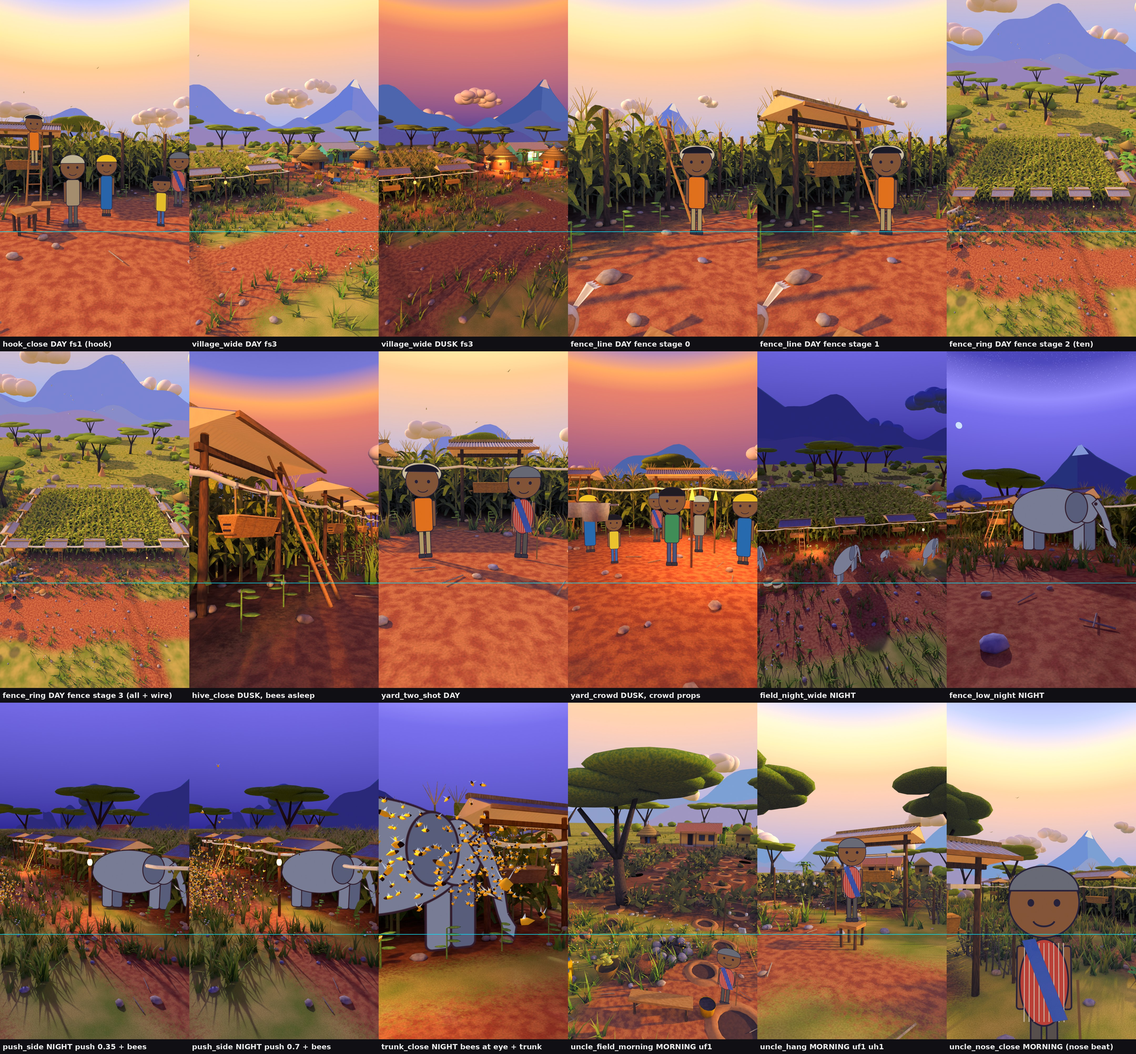
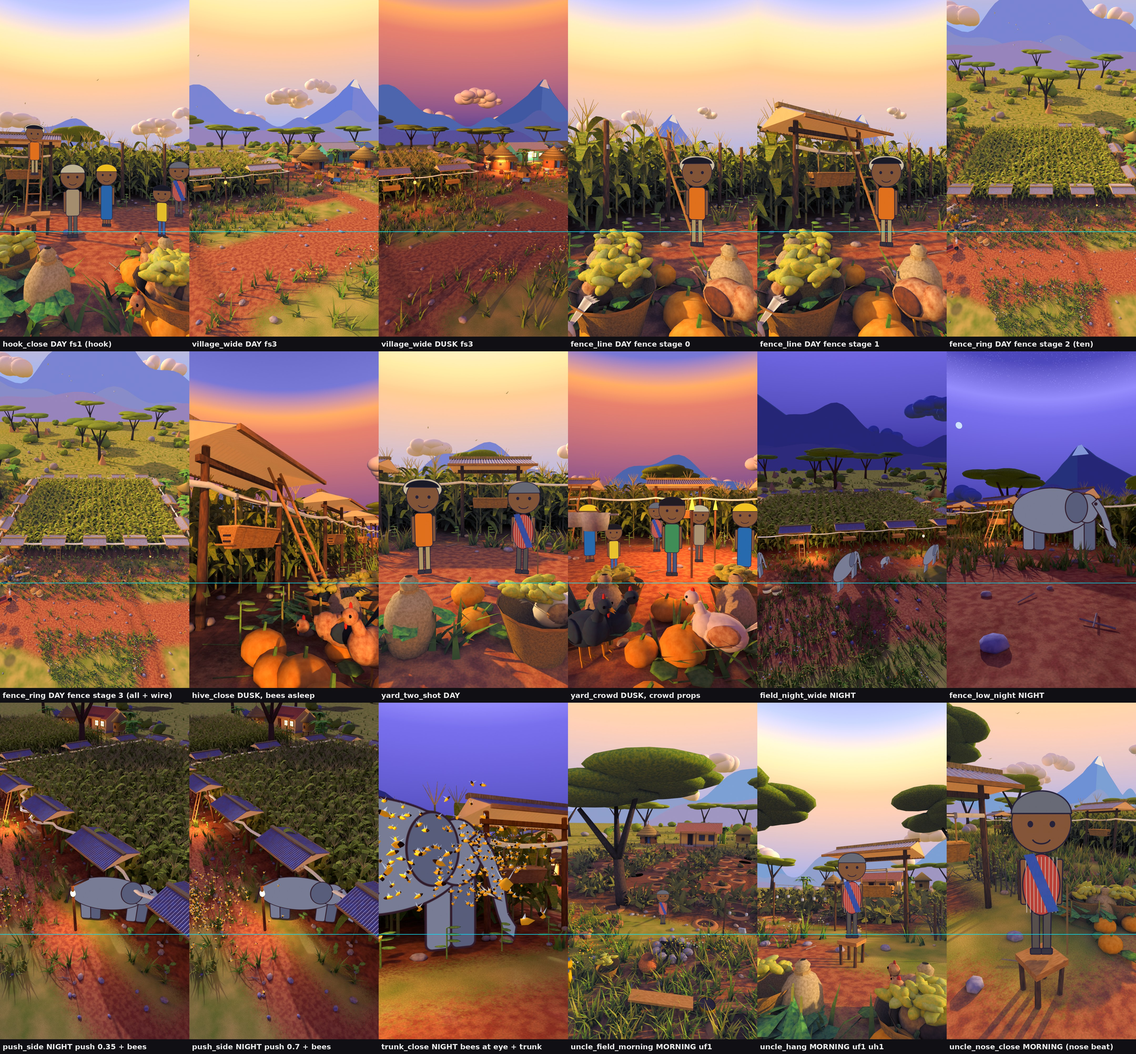
Film 14: set3d14 round 3 (edge dressing, push_side high view, payoff framing)
Claude-Session: https://claude.ai/code/session_017iwyCwFFpWgHeE98WRReuc

diff --git a/film/v3/set3d14/farm.py b/film/v3/set3d14/farm.py
@@ -422,10 +422,10 @@ STAND = {   # name -> (x, y, z): floor points for actor cards (card bottom = fee
  'uncle_yard': (-1.2, 1.2, 0.0), 'uncle_night': (-2.4, 2.6, 0.0),
  'crowd_a': (-4.2, 1.2, 0.0), 'crowd_b': (-3.3, 0.2, 0.0), 'crowd_c': (-1.2, 1.2, 0.0), 'crowd_d': (-0.4, 0.1, 0.0), 'crowd_e': (-2.0, 0.0, 0.0),
  'villager_woman': (-4.0, 1.9, 0.0), 'villager_kid': (-3.0, 1.0, 0.0), 'villager_oldman': (-4.9, 1.3, 0.0), 'villager_woman2': (-2.4, 1.9, 0.0), 'villager_man': (-1.6, 2.4, 0.0),
- 'matriarch_push': (5.4, 4.3, 0.0), 'matriarch_arrive': (-0.6, 2.3, 0.0),
+ 'matriarch_push': (5.4, 4.0, 0.0), 'matriarch_push_in': (6.6, 4.3, 0.0), 'matriarch_arrive': (-0.6, 2.3, 0.0),
  'ele_2': (-6.2, 2.4, 0.0), 'ele_3': (8.6, 2.0, 0.0), 'ele_4': (-11.0, 0.6, 0.0), 'calf': (3.0, 1.6, 0.0),
  'herd_a': (-9.0, 0.2, 0.0), 'herd_b': (-2.5, -0.8, 0.0), 'herd_c': (4.5, 0.4, 0.0), 'herd_d': (9.5, 1.4, 0.0), 'herd_calf': (1.0, 1.4, 0.0),
- 'uncle_stool': (-22.4, 2.4, 0.46), 'uncle_field': (-27.0, 1.2, 0.0), 'uncle_fence_hive': (-23.0, 5.0, 0.0),
+ 'uncle_stool': (-22.4, 2.4, 0.46), 'uncle_field': (-30.0, 4.6, 0.0), 'uncle_fence_hive': (-23.0, 5.0, 0.0),
 }
 # heights in m. The real cast14 scale: 1 D = 0.583 m, matriarch 3.3 m, elephant_b/c/d 0.86/0.93/0.77 of that, calf 0.36 (1.2 m); real canvases CANVAS14 (+-11.3 D wide, 9.3 D tall for the matriarch)
 HEIGHT = dict(hero=1.75, uncle=1.72, woman=1.62, kid=1.15, oldman=1.6, man=1.75, matriarch=3.3, elephant_b=2.84, elephant_c=3.07, elephant_d=2.54, elephant=3.0, calf=1.2)
@@ -575,6 +575,27 @@ def _village(M, light, props):
         x = 14.0 + i * 0.95; props.rod(M['wood'], (x, 2.0 + rw.uniform(-.05, .05), 0), (x, 2.0, 0.9 + rw.uniform(-.1, .1)), 0.025, 0.022, 4)
     for z in (0.35, 0.6, 0.85): props.poly(M['woodgrey'], [(14.0 + k * 1.9, 2.0, z) for k in range(15)], 0.014, 0.014, 4, smooth=False)
 
+EDGE_PRESETS = ('hook_close', 'fence_line', 'hive_close', 'yard_two_shot', 'yard_crowd', 'uncle_hang', 'fence_low_night', 'uncle_nose_close')
+def _edge_dress(M, light, preset):
+    """props already in the set (kale, cob baskets, pumpkins, chickens, sacks, short tufts) 1.9-4.4 m from the camera at the frame edges: no flowers, clear lane + clear stand points."""
+    c = CAMS[preset]; cl = Vector(c['loc']); lk = Vector(c['look']) - cl; az = math.atan2(lk.y, lk.x); half = math.atan(10.125 / c['lens']); rr = rnd(900 + len(preset))
+    stands = [(STAND[st[1]][0], STAND[st[1]][1]) for st in PRESETS[preset]['staging']]; mb = MB('edge'); n = 0
+    for i in range(120):
+        if n >= 16: break
+        side = -1 if i % 2 else 1; ang = az + side * rr.uniform(0.5, 0.95) * half; d = rr.uniform(1.9, 4.6); x = cl.x + math.cos(ang) * d; y = cl.y + math.sin(ang) * d
+        if y > 3.6 and -15 < x < 12.5: continue
+        if y > 4.0 and -47 < x < -21: continue
+        if any((x - sx) ** 2 + (y - sy) ** 2 < 1.7 ** 2 for sx, sy in stands): continue
+        k = n % 6; n += 1
+        if k == 0: dx, dy = math.cos(ang + 1.5708), math.sin(ang + 1.5708); G.kale_row(mb, M, (x, y, 0.0), (x + dx * 1.3, y + dy * 1.3, 0.0), rr, 0.5)
+        elif k == 1: G.basket(mb, M, (x, y), True, int(x * 7))
+        elif k == 2: G.pumpkin_patch(mb, M, (x, y, 0.0), rr, 3)
+        elif k == 3 and light != 'NIGHT': G.chicken(mb, M, (x, y, 0.0), rr.uniform(0, 6.28), 1.15, int(abs(x)) % 4, 0.7 if int(abs(y)) % 2 else 0.0)
+        elif k == 4: G.sack(mb, M, (x, y, 0.0), rr.uniform(0, 6), 0.9)
+        else:
+            for q in range(4): G.grass_clump(mb, M, (x + rr.uniform(-.5, .5), y + rr.uniform(-.5, .5), 0.0), rr, rr.uniform(0.25, 0.45), 'grassgreen', 5)
+    mb.finish()
+
 def _trees(M, light):
     mb = MB('trees')
     for i, (x, y, s, yw) in enumerate([(-20.0, 20.0, 1.5, 0.3), (35.0, 5.0, 1.3, 1.1), (-33.0, 6.0, 1.1, 2.1), (0.0, 44.0, 1.7, 0.5), (-6.0, 60.0, 1.4, 1.5), (26.0, 34.0, 1.2, 0.9),
@@ -615,7 +636,7 @@ def _grass(M, light, cam_locs, cull=()):
     # camera-side foreground tufts: dense near every preset camera, thinning with distance
     for (cx, cy, fx, fy, n, dmax) in cam_locs:
         for i in range(n):
-            d = rg.uniform(4.6, max(dmax, 6.0)); a = math.atan2(fy, fx) + rg.uniform(-0.62, 0.62); x = cx + math.cos(a) * d; y = cy + math.sin(a) * d
+            d = rg.uniform(3.0 if n > 400 else 4.6, max(dmax, 6.0)); a = math.atan2(fy, fx) + rg.uniform(-0.62, 0.62); x = cx + math.cos(a) * d; y = cy + math.sin(a) * d
             if not ok(x, y) or -0.6 < y < 0.0 and rg.random() < 0.0: continue
             if -4.8 < y < -1.2 and 0.0 < x < 8.0 and rg.random() < 0.9: continue         # keep the cart track clear
             G.grass_clump(mb, M, (x, y, 0.0), rg, rg.uniform(0.25, 0.55), 'grassgreen' if rg.random() < 0.35 else 'grass', 5)
@@ -772,19 +793,19 @@ def _clear_actors():
 def _roles(): return HEIGHT
 CAMS = dict(
  village_wide=dict(loc=(3.0, -10.5, 5.2), look=(14.0, 12.0, 1.0), lens=20),
- fence_line=dict(loc=(-9.9, 0.9, 1.45), look=(-5.7, 5.0, 1.25), lens=22),
- fence_ring=dict(loc=(-1.5, -14.5, 18.0), look=(-1.5, 15.0, 0.0), lens=20),
- hive_close=dict(loc=(-9.7, 2.4, 1.2), look=(-5.2, 5.0, 1.45), lens=24),
- hook_close=dict(loc=(-5.2, -2.7, 1.5), look=(-3.9, 4.0, 1.15), lens=20),
- yard_two_shot=dict(loc=(-2.1, -2.5, 1.4), look=(-2.1, 1.5, 0.7), lens=22),
- yard_crowd=dict(loc=(-2.2, -4.4, 1.45), look=(-2.2, 2.0, 0.85), lens=22),
- field_night_wide=dict(loc=(-4.0, -13.5, 9.0), look=(-0.5, 10.0, 0.8), lens=22),
+ fence_line=dict(loc=(-9.9, 0.9, 1.45), look=(-5.7, 5.0, 1.55), lens=22),
+ fence_ring=dict(loc=(-1.5, -12.5, 18.0), look=(-1.5, 15.0, -1.5), lens=20),
+ hive_close=dict(loc=(-9.7, 2.4, 1.2), look=(-5.2, 5.0, 1.7), lens=24),
+ hook_close=dict(loc=(-5.2, -2.7, 1.5), look=(-3.9, 4.0, 1.5), lens=20),
+ yard_two_shot=dict(loc=(-2.1, -2.5, 1.4), look=(-2.1, 1.5, 1.0), lens=22),
+ yard_crowd=dict(loc=(-2.2, -4.4, 1.45), look=(-2.2, 2.0, 1.15), lens=22),
+ field_night_wide=dict(loc=(-4.0, -13.5, 9.0), look=(-0.5, 10.0, 1.6), lens=22),
  fence_low_night=dict(loc=(3.4, -4.4, 1.15), look=(-1.3, 2.4, 1.3), lens=22),
- push_side=dict(loc=(12.5, -2.2, 3.4), look=(-2.2, 7.5, 0.2), lens=26),
+ push_side=dict(loc=(10.5, -0.6, 8.2), look=(3.0, 5.0, 0.8), lens=26),
  trunk_close=dict(loc=(5.2, 0.2, 1.5), look=(6.9, 4.3, 1.4), lens=28),
  uncle_field_morning=dict(loc=(-27.0, -3.5, 4.8), look=(-33.5, 14.0, 0.0), lens=22),
- uncle_hang=dict(loc=(-20.4, -1.2, 1.5), look=(-22.4, 2.4, 1.5), lens=22),
- uncle_nose_close=dict(loc=(-23.4, 1.1, 2.0), look=(-22.2, 2.7, 2.15), lens=22),
+ uncle_hang=dict(loc=(-20.4, -1.2, 1.5), look=(-22.4, 2.4, 1.8), lens=22),
+ uncle_nose_close=dict(loc=(-23.55, 0.8, 1.9), look=(-22.4, 2.4, 1.42), lens=22),
 )
 NOTES = dict(
  village_wide='high wide: the beehive-fenced maize field, hero yard, the village of huts and tin house to the right, the uncle farm to the left, acacias, hills and the blue mountain',
@@ -796,7 +817,7 @@ NOTES = dict(
  yard_crowd='the crowd of villagers + uncle in the yard at DUSK with torches and pots (cr1)',
  field_night_wide='high wide at night: the whole fence ring, the herd walking toward it, fire and lantern pools, moon key',
  fence_low_night='low at the fence at night: the matriarch arriving in front of unit 1-2, hives and wire in the moonlight, moon in frame',
- push_side='3/4 view ALONG the front wire from the right: matriarch at the near end pushing, 6+ hives receding left; the bow and the travelling wave',
+ push_side='high 3/4 view (about 40 deg down) along the front wire from the right: from above the bowed wire shows over the matriarch\'s back at the push point (x 6.0), hives and roofs recede left',
  trunk_close='the whole matriarch head + trunk at the fence: bees at eye and trunk, wire and hives behind',
  uncle_field_morning="high-ish view of the uncle's trampled field in morning light: flattened stalks, broken thorn fence, big footprints, cobs",
  uncle_hang='medium: the uncle ON his stool by his own fence hanging his first hive, morning light',
@@ -866,8 +887,9 @@ def build(preset=None, light=None, clear=True, dress=True):
     build_fence(M)
     props = MB('props'); _hero_yard(M, light, props); _village(M, light, props); _uncle_farm(M, light, props); props.finish()
     _trees(M, light)
+    if dress and preset in EDGE_PRESETS: _edge_dress(M, light, preset)
     cc = CAMS[preset]; wide = preset in ('village_wide', 'field_night_wide', 'fence_ring', 'uncle_field_morning')
-    cl = [(cc['loc'][0], cc['loc'][1], cc['look'][0] - cc['loc'][0], cc['look'][1] - cc['loc'][1], (500 if wide else 70) if dress else 0, 26.0 if wide else 10.0)]
+    cl = [(cc['loc'][0], cc['loc'][1], cc['look'][0] - cc['loc'][0], cc['look'][1] - cc['loc'][1], (1500 if wide else 70) if dress else 0, 26.0 if wide else 10.0)]
     cull = [(cc['loc'][0], cc['loc'][1], 2.0 if wide else 4.8)] + [(STAND[st[1]][0], STAND[st[1]][1], 1.9) for st in PRESETS[preset]['staging']]
     if not wide: cull += [((cc['loc'][0] * 0.6 + STAND[st[1]][0] * 0.4), (cc['loc'][1] * 0.6 + STAND[st[1]][1] * 0.4), 1.6) for st in PRESETS[preset]['staging']]
     _grass(M, light, cl if dress else [], cull)

diff --git a/film/v3/set3d14/API.md b/film/v3/set3d14/API.md
@@ -4,6 +4,12 @@ Files: `farm.py` (set, hooks, presets, cameras, stand points, placeholders, CLI)
 `contact.jpg` / `contact_small.jpg` (16 tiles, 720x1280 each, label under the tile, cyan line at y 880), `farm_work/` (`final/` the 16 PNGs, `final_log.txt`, `hue_rows.txt`, `contact_order.txt`, `stills/`), `tex/` (ground mask, placeholder card art), `styleboard/` (the approved board).
 Grown from `styleboard/sb.py`: same palette, same hard warm key + blue-violet ambient, painterly noise materials, red laterite, blue Mt Kenya. **No depth of field. No text in any picture.** Build takes about 4 s.
 
+## Round 3 changes (QA re-check). Backup of round 2: `bak_r1/`.
+- **Low tiles:** `look_at` raised 0.3-0.5 m on hook_close, fence_line, hive_close, yard_two_shot, yard_crowd, uncle_hang (floor now about 25 % of the frame); `_edge_dress` places set props (kale rows, cob baskets, pumpkins, chickens, sacks, short wide tufts) 1.9-4.6 m from the camera at the frame edges (`EDGE_PRESETS`), never within 1.7 m of a stand point, no flowers. The props are large because they are near; thin them with `dress=False` or lower `n` in `_edge_dress`.
+- **fence_ring / field_night_wide:** tilted so the blotchy near ground leaves the frame, 1500 short tufts from 3 m out.
+- **push_side:** camera is now (10.5,-0.6,8.2) -> (3,5,0.8), 26 mm: about 40 deg down, so the bowed wire is seen from above, over the matriarch's back at the push point (the wire is behind her in a low view; a high view is the only way to see the bow against her). `matriarch_push` stand is (5.4, 4.0). `farm_work/push_strip.jpg` shows push 0 / 0.2 / 0.4 / 0.7: the wire kinks at the push point and the roofs/hives tilt in sequence along the row; the bees show only on the far-left hives (near hives are hidden under their roofs from above). Cost 53 s (dense foreground) - over the 40 s budget; lower samples to 16 for this tile.
+- **uncle_nose_close:** camera 1.95 m from the head, pitched 14 deg down: head y 327-566 (about 240 px), so a 1.0 nose (1.76 head widths below the face) ends at about y 868. **uncle_field_morning:** uncle stand moved to (-30, 4.6): head y 711-757.
+
 ## Round 2 changes (QA-tech FAIL / QA-art FIX-FIRST). Backup of round 1: `bak_r0/`.
 - Push point moved to the front row x 6.0 (arc 20.0); wave speed 11 m/s, bow 1.6 m, hive swing up to 0.9 rad; wire radius is per preset (`wire_r`: default 4.6 cm, push_side 7.5, trunk_close 6, fence_ring 12).
 - Bees: 45 per hive end (4 x 16 hives = 1440 max), sized by distance to the camera (7 cm near, 17 cm at 17 m) so they read as bees; 14 resting bees per end when asleep; wings smaller. **Call `set_bees` after the camera exists/moves** (the CLI does).
@@ -86,15 +92,14 @@ Contact sheet: edit `farm_work/contact_order.txt` (spec|label), render the specs
 ## Render cost (720x1280 final, 24 samples, OIDN, 4 threads, nothing else running)
 Wall 25-41 s per frame (mean 33 s), 95-153 CPU s; build 3 s extra per process. Slowest: `hive_close` 40.7 s, `uncle_field_morning` 40.2 s, `field_night_wide` 39.6 s. Previews (360x640, 14 samples): 5-8 s.
 
-## Hue (tools/hue_report.py, farm_hue.py; `farm_work/hue_rows.txt`, 18 tiles)
-Magenta: max 6.1 % (village_wide DUSK), everything else 0.3-5.2 %; **all tiles under 10 %**.
-Shade hue (blue>=red shaded pixels, shaded fraction 1-18 %): in band 240-260: fence_low_night 241.1, field_night_wide 241.7, hive_close 258.9, hook_close 250.9, push_side x2 244.0, uncle_field_morning 258.5, uncle_hang 248.4, uncle_nose_close 252.6, village_wide DUSK 250.1, yard_two_shot 253.1.
-Out of band: fence_line fs0/fs1 267.0/264.4, fence_ring fs2/fs3 269.4/271.9, village_wide DAY 233.1, trunk_close 238.9, yard_crowd 232.5 (the blue placeholder dresses count as shade pixels). DAY frames still only have about 1-2 % measurable shade (shade on red laterite is desaturated violet-grey after the tint, not strongly blue).
-Light groups: DAY red 43 / orange 41 / blue 6 %, MORNING 29 / 47 / 9, DUSK 53 / 33 / 7, NIGHT blue 58 %, saturation 0.39-0.58.
+## Hue (tools/hue_report.py, farm_hue.py; `farm_work/hue_rows.txt`, 18 tiles, after round 3)
+Magenta: max 6.8 % (yard_crowd), village_wide DUSK 6.1 %; all others under 5 %: **every tile is under the 10 % limit**.
+Shade hue in 240-260: fence_line fs0/fs1 242.2/243.4, fence_low_night 241.1, field_night_wide 241.6, push_side x2 251.7, uncle_field_morning 253.1, village_wide DUSK 250.1.
+Out of band: fence_ring fs2/fs3 270.7/273.4, hive_close 230.5, hook_close 169.1, trunk_close 238.9, uncle_hang 160.3, uncle_nose_close 227.6, village_wide DAY 233.1, yard_crowd 238.4, yard_two_shot 201.3. The measured shade share is 0.5-1.3 % on DAY/MORNING tiles, and the new near-camera props (green kale, blue placeholder cards, grey stones) now dominate the few b>=r pixels (169 / 160 / 201 are those), so the number says little there; the shadow-tint grade itself is unchanged since round 2.
 
 ## Known weak points
-- Shade hue is out of band on the DAY fence tiles (264-272) and village_wide DAY (233); the metric counts few pixels there.
-- hook_close: villagers are 80-95 px head height, the hero on the ladder only 65 px (he is 6.5 m away); fence_line hero head 114 px.
-- Low presets are now clear red earth in the bottom 35 %: clean for the cast, but bare compared with round 1. Foreground detail can be added at the frame edges.
-- Placeholder cards are flat; the trampled field's footprints read as round pits/donuts; push_side bees and the wire bow read, but the wire is a thick cartoon line (7.5 cm).
-- No 6-frame shimmer test was run this round (thicker wire, fewer wider blades, no flower dots within 6 m were used to reduce it).
+- Shade hue is not measurable on DAY/MORNING tiles (see Hue); 10 of 18 are out of band.
+- Edge props are big and cover the bottom 25-30 % of the low tiles; they could be thinned or pushed to y > 4 m.
+- push_side is a high view: hives are hidden by their roofs, the near bees are few, and it costs 53 s.
+- Footprints still read as pits with a rim; the remaining plants in the uncle field read as low bushes.
+- hook_close: hero head 64 px; no 6-frame shimmer test yet.
